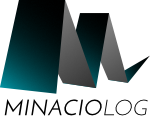
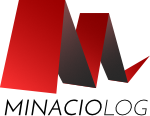
Alteração/Adequação do Front-End para Vermelho, conforme solicitado pelo Marcelo

diff --git a/web/css/style.css b/web/css/style.css
@@ -33,7 +33,7 @@ li.menu-lateral{
 }
 
 #index-banner{
-    background-color: #00acc1;
+    background-color: #c62828;
 }
 
 #index-banner .header{
